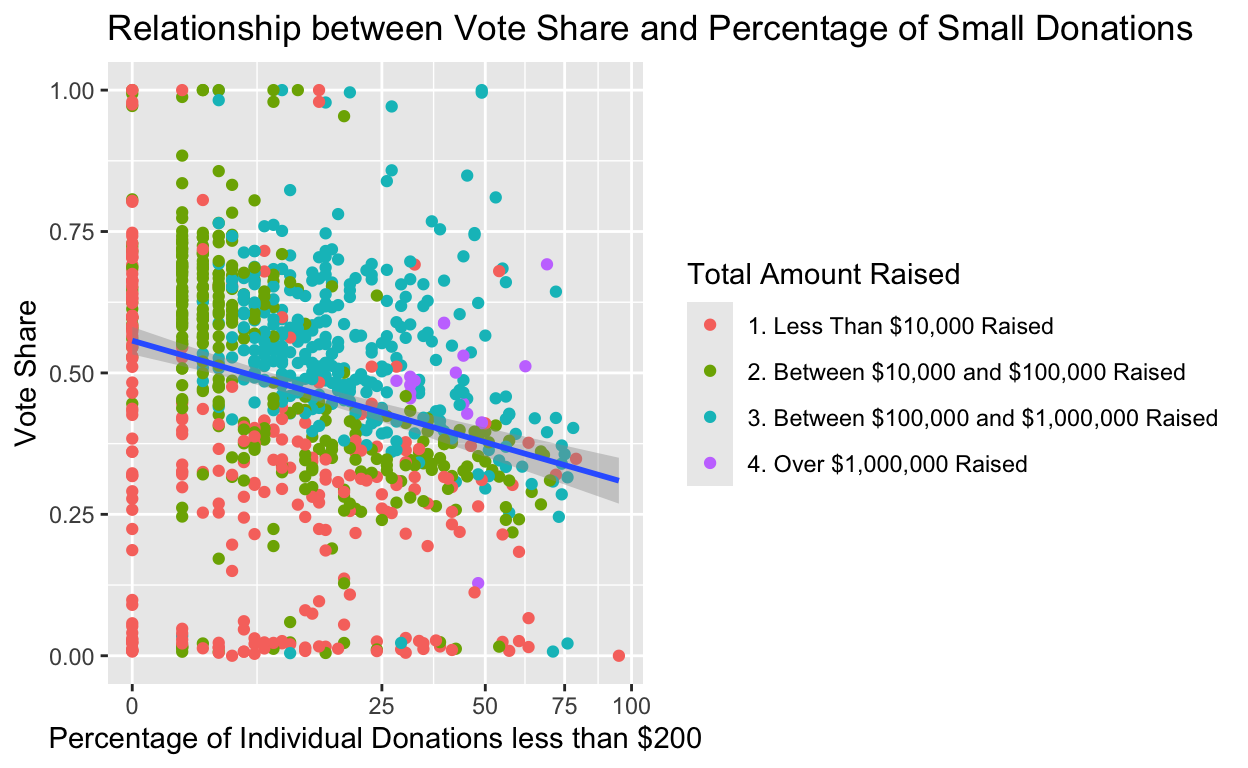
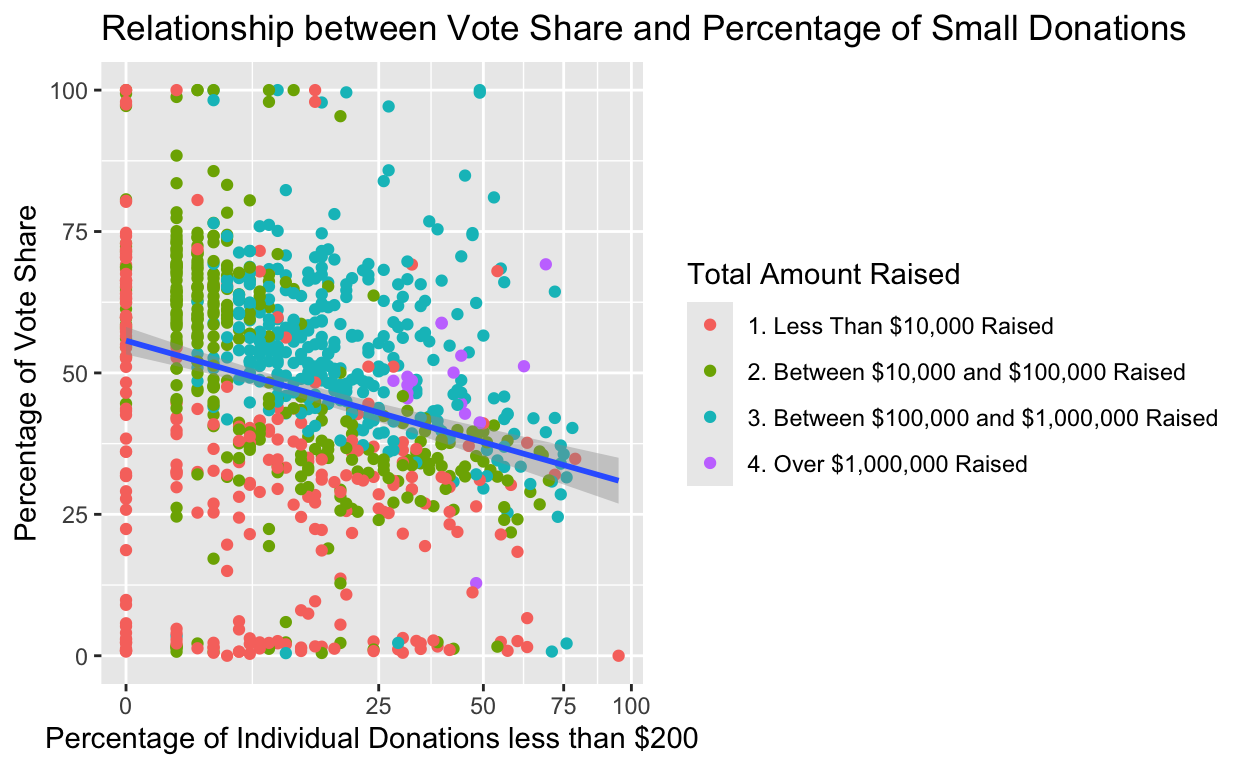
Linear Regression Model

diff --git a/index.html b/index.html
@@ -1550,38 +1550,6 @@ code span.wa { color: #5e5e5e; font-style: italic; } /* Warning */
 <p>Does size of donations impact a candidates electability? In this study, I plan to analyze the extent in which the percent of campaign donations from individuals under $200 influences the final election results. I hypothesize that a higher percent of small donations will result in a larger percent of the vote share. Those with a greater amount of smaller donations are better able to mobilize and attract a larger amount of individuals donating, whereas those with large donations focus more so on PACs and lobbying groups which can not cast a ballot when the time comes. My sample includes the House and Senate nominees from the 2024 Election. My explanatory variable is the percentage of total donations coming from donations of 200 dollars or less. The variable will be split into ranges of 25%. My outcome variable will be the average percentage of vote share. If a positive correlation is found between percentage of small donations and percent of vote share, this would support my hypothesis. However, if larger donations result in higher voteshare, than my hypothesis would be incorrect.</p>
 <div class="layout-chunk" data-layout="l-body">
 <div class="sourceCode">
-<pre class="sourceCode r"><code class="sourceCode r"><span><span class='va'>Donations</span> <span class='op'>&lt;-</span> <span class='fu'><a href='https://readr.tidyverse.org/reference/read_delim.html'>read_csv</a></span><span class='op'>(</span><span class='st'>"data/Large vs. Small Donations, Current General Election Candidates, 2024 Cycle.csv"</span><span class='op'>)</span></span>
-<span><span class='fu'><a href='https://rdrr.io/r/utils/head.html'>head</a></span><span class='op'>(</span><span class='va'>Donations</span><span class='op'>)</span></span></code></pre>
-</div>
-<pre><code># A tibble: 6 × 5
-  Name    `Total Raised` Total from Small Don…¹ Percent from Small D…²
-  &lt;chr&gt;   &lt;chr&gt;          &lt;chr&gt;                  &lt;chr&gt;                 
-1 Wright… $10528         $10299                 97.82%                
-2 CallJa… $76694         $73521                 95.86%                
-3 Housto… $7033          $6733                  95.73%                
-4 Murphy… $1507          $1432                  95.02%                
-5 DevoeM… $10395         $9675                  93.07%                
-6 Miller… $245           $222                   90.59%                
-# ℹ abbreviated names: ¹`Total from Small Donors`,
-#   ²`Percent from Small Donors*`
-# ℹ 1 more variable: `total money raised` &lt;chr&gt;</code></pre>
-<div class="sourceCode">
-<pre class="sourceCode r"><code class="sourceCode r"><span><span class='va'>Vote_Share</span> <span class='op'>&lt;-</span> <span class='fu'><a href='https://readr.tidyverse.org/reference/read_delim.html'>read_csv</a></span><span class='op'>(</span><span class='st'>"data/Nominees-2024.csv"</span><span class='op'>)</span> <span class='op'>|&gt;</span></span>
-<span>  <span class='fu'><a href='https://dplyr.tidyverse.org/reference/select.html'>select</a></span><span class='op'>(</span><span class='va'>Nominee</span>, <span class='va'>Race</span>, <span class='va'>Type</span>, <span class='va'>Party</span>, <span class='va'>Votes</span>, <span class='va'>Share</span>, <span class='va'>Total</span><span class='op'>)</span></span>
-<span><span class='fu'><a href='https://rdrr.io/r/utils/head.html'>head</a></span><span class='op'>(</span><span class='va'>Vote_Share</span><span class='op'>)</span></span></code></pre>
-</div>
-<pre><code># A tibble: 6 × 7
-  Nominee                 Race  Type  Party       Votes Share  Total
-  &lt;chr&gt;                   &lt;chr&gt; &lt;chr&gt; &lt;chr&gt;       &lt;dbl&gt; &lt;dbl&gt;  &lt;dbl&gt;
-1 F. Barry Moore          AL-01 House Republican 258619 0.784 329854
-2 Thomas B. Holmes, Jr.   AL-01 House Democratic  70929 0.215 329854
-3 Caroleene Hardee Dobson AL-02 House Republican 131414 0.454 289674
-4 Shomari C. Figures      AL-02 House Democratic 158041 0.546 289674
-5 Michael D. Rogers       AL-03 House Republican 243848 0.979 249008
-6 Robert B. Aderholt      AL-04 House Republican 274498 0.988 277872</code></pre>
-</div>
-<div class="layout-chunk" data-layout="l-body">
-<div class="sourceCode">
 <pre class="sourceCode r"><code class="sourceCode r"><span><span class='va'>Donations</span> <span class='op'>|&gt;</span></span>
 <span>  <span class='fu'><a href='https://dplyr.tidyverse.org/reference/mutate.html'>mutate</a></span><span class='op'>(</span></span>
 <span>    clean_name <span class='op'>=</span> <span class='fu'><a href='https://stringr.tidyverse.org/reference/str_replace.html'>str_replace</a></span><span class='op'>(</span><span class='va'>Name</span>, <span class='st'>" \\(.\\)"</span>, <span class='st'>""</span><span class='op'>)</span>,</span>
@@ -1654,49 +1622,84 @@ code span.wa { color: #5e5e5e; font-style: italic; } /* Warning */
 </div>
 <div class="layout-chunk" data-layout="l-body">
 <div class="sourceCode">
-<pre class="sourceCode r"><code class="sourceCode r"><span><span class='va'>Data</span> <span class='op'>&lt;-</span> <span class='va'>Data</span> <span class='op'>|&gt;</span></span>
-<span>  <span class='fu'><a href='https://dplyr.tidyverse.org/reference/mutate.html'>mutate</a></span><span class='op'>(</span>PercentSmall <span class='op'>=</span> <span class='fu'><a href='https://dplyr.tidyverse.org/reference/case_when.html'>case_when</a></span><span class='op'>(</span><span class='va'>Percent_Small_Donors</span> <span class='op'>&lt;</span> <span class='fl'>10</span> <span class='op'>~</span> <span class='st'>"1. Less than 10% from Small Donors"</span>,</span>
-<span>                                  <span class='va'>Percent_Small_Donors</span> <span class='op'>&gt;=</span> <span class='fl'>10</span> <span class='op'>&amp;</span> <span class='va'>Percent_Small_Donors</span> <span class='op'>&lt;</span> <span class='fl'>25</span> <span class='op'>~</span> <span class='st'>"2. Between 10% and 25% from Small Donors"</span>,</span>
-<span>                                  <span class='va'>Percent_Small_Donors</span> <span class='op'>&gt;=</span> <span class='fl'>25</span> <span class='op'>&amp;</span> <span class='va'>Percent_Small_Donors</span> <span class='op'>&lt;</span> <span class='fl'>50</span> <span class='op'>~</span> <span class='st'>"3. Between 25% and 50% from Small Donors"</span>,</span>
-<span>                                  <span class='va'>Percent_Small_Donors</span> <span class='op'>&gt;=</span> <span class='fl'>50</span> <span class='op'>&amp;</span> <span class='va'>Percent_Small_Donors</span> <span class='op'>&lt;</span> <span class='fl'>75</span> <span class='op'>~</span> <span class='st'>"4. Between 50% and 75% from Small Donors"</span>,</span>
-<span>                                  <span class='va'>Percent_Small_Donors</span> <span class='op'>&gt;=</span> <span class='fl'>75</span> <span class='op'>~</span> <span class='st'>"Over 75% from Small Donors"</span><span class='op'>)</span><span class='op'>)</span></span>
-<span><span class='va'>Data</span></span></code></pre>
-</div>
-<pre><code># A tibble: 944 × 17
-   Name              `Total Raised` Total from Small Don…¹ Total_Small
-   &lt;chr&gt;             &lt;chr&gt;          &lt;chr&gt;                        &lt;int&gt;
- 1 MurphyMike Murph… $1507          $1432                         1432
- 2 JamesBrandon Jam… $2999          $2389                         2389
- 3 MartinezTekesha … $607086        $477530                     477530
- 4 CraigJames Craig… $136339        $104722                     104722
- 5 WilsonTamie Wils… $2297407       $1764287                   1764287
- 6 HarrisShawn Harr… $3521099       $2643282                   2643282
- 7 WomerZach Womer … $140000        $104323                     104323
- 8 ValimontGay Vali… $1570201       $1169688                   1169688
- 9 PinkinsTy Pinkin… $1043829       $776394                     776394
-10 Al-AqidiDalia Al… $2207769       $1619067                   1619067
-# ℹ 934 more rows
-# ℹ abbreviated name: ¹`Total from Small Donors`
-# ℹ 13 more variables: `Percent from Small Donors*` &lt;chr&gt;,
-#   Percent_Small_Donors &lt;int&gt;, `total money raised` &lt;chr&gt;,
-#   clean.name &lt;chr&gt;, Nominee &lt;chr&gt;, Race &lt;chr&gt;, Type &lt;chr&gt;,
-#   Party &lt;chr&gt;, Votes &lt;dbl&gt;, Share &lt;dbl&gt;, Total &lt;dbl&gt;,
-#   `Total Amount Raised` &lt;chr&gt;, PercentSmall &lt;chr&gt;</code></pre>
-</div>
-<div class="layout-chunk" data-layout="l-body">
-<div class="sourceCode">
 <pre class="sourceCode r"><code class="sourceCode r"><span><span class='fu'><a href='https://ggplot2.tidyverse.org/reference/ggplot.html'>ggplot</a></span><span class='op'>(</span><span class='va'>Data</span>, <span class='fu'><a href='https://ggplot2.tidyverse.org/reference/aes.html'>aes</a></span><span class='op'>(</span>x <span class='op'>=</span> <span class='va'>Percent_Small_Donors</span>,</span>
-<span>                 y <span class='op'>=</span> <span class='va'>Share</span><span class='op'>)</span><span class='op'>)</span> <span class='op'>+</span></span>
+<span>                 y <span class='op'>=</span> <span class='va'>Share_perc</span><span class='op'>)</span><span class='op'>)</span> <span class='op'>+</span></span>
 <span>  <span class='fu'><a href='https://ggplot2.tidyverse.org/reference/geom_point.html'>geom_point</a></span><span class='op'>(</span><span class='fu'><a href='https://ggplot2.tidyverse.org/reference/aes.html'>aes</a></span><span class='op'>(</span>color <span class='op'>=</span> <span class='va'>`Total Amount Raised`</span><span class='op'>)</span><span class='op'>)</span> <span class='op'>+</span> </span>
 <span>  <span class='fu'><a href='https://ggplot2.tidyverse.org/reference/geom_smooth.html'>geom_smooth</a></span><span class='op'>(</span>method <span class='op'>=</span> <span class='st'>"lm"</span><span class='op'>)</span> <span class='op'>+</span></span>
 <span>  <span class='fu'><a href='https://ggplot2.tidyverse.org/reference/scale_continuous.html'>scale_x_sqrt</a></span><span class='op'>(</span><span class='op'>)</span> <span class='op'>+</span></span>
 <span>  <span class='fu'><a href='https://ggplot2.tidyverse.org/reference/labs.html'>labs</a></span><span class='op'>(</span>title <span class='op'>=</span> <span class='st'>"Relationship between Vote Share and Percentage of Small Donations"</span>,</span>
 <span>       x <span class='op'>=</span> <span class='st'>"Percentage of Individual Donations less than $200"</span>,</span>
-<span>       y <span class='op'>=</span> <span class='st'>"Vote Share"</span><span class='op'>)</span></span></code></pre>
+<span>       y <span class='op'>=</span> <span class='st'>"Percentage of Vote Share"</span><span class='op'>)</span></span></code></pre>
 </div>
 <p><img src="index_files/figure-html5/unnamed-chunk-10-1.png" alt="" width="624" /></p>
 </div>
-<div class="sourceCode" id="cb6"><pre class="sourceCode r distill-force-highlighting-css"><code class="sourceCode r"></code></pre></div>
+<div class="layout-chunk" data-layout="l-body">
+<div class="sourceCode">
+<pre class="sourceCode r"><code class="sourceCode r"><span><span class='va'>Regression</span> <span class='op'>&lt;-</span> <span class='fu'><a href='https://rdrr.io/r/stats/lm.html'>lm</a></span><span class='op'>(</span><span class='op'>(</span><span class='va'>Share</span><span class='op'>*</span><span class='fl'>100</span><span class='op'>)</span> <span class='op'>~</span> <span class='va'>Percent_Small_Donors</span> <span class='op'>+</span> <span class='va'>Total_Small_tenthousand</span>, data <span class='op'>=</span> <span class='va'>Data</span><span class='op'>)</span></span>
+<span><span class='va'>Regression_sum</span> <span class='op'>&lt;-</span> <span class='fu'><a href='https://generics.r-lib.org/reference/glance.html'>glance</a></span><span class='op'>(</span><span class='va'>Regression</span><span class='op'>)</span></span>
+<span><span class='va'>Regression</span> <span class='op'>|&gt;</span></span>
+<span>  <span class='fu'><a href='https://generics.r-lib.org/reference/tidy.html'>tidy</a></span><span class='op'>(</span><span class='op'>)</span> <span class='op'>|&gt;</span></span>
+<span>  <span class='fu'><a href='https://dplyr.tidyverse.org/reference/mutate.html'>mutate</a></span><span class='op'>(</span>adj.r.squared <span class='op'>=</span> <span class='va'>Regression_sum</span><span class='op'>$</span><span class='va'>adj.r.squared</span><span class='op'>)</span> <span class='op'>|&gt;</span></span>
+<span>   <span class='fu'><a href='https://dplyr.tidyverse.org/reference/mutate.html'>mutate</a></span><span class='op'>(</span>Coefficients <span class='op'>=</span> <span class='fu'><a href='https://dplyr.tidyverse.org/reference/case_when.html'>case_when</a></span><span class='op'>(</span><span class='va'>term</span> <span class='op'>==</span> <span class='st'>"(Intercept)"</span> <span class='op'>~</span> <span class='st'>"Intercept"</span>,</span>
+<span>                          <span class='va'>term</span> <span class='op'>==</span> <span class='st'>"Percent_Small_Donors"</span> <span class='op'>~</span> <span class='st'>"Percentage of Individual Donations less than $200"</span>,</span>
+<span>                          <span class='va'>term</span> <span class='op'>==</span> <span class='st'>"Total_Small_tenthousand"</span> <span class='op'>~</span> <span class='st'>"Total Amount Raised (ten thousands)"</span><span class='op'>)</span><span class='op'>)</span> <span class='op'>|&gt;</span></span>
+<span>   <span class='fu'><a href='https://dplyr.tidyverse.org/reference/select.html'>select</a></span><span class='op'>(</span><span class='va'>Coefficients</span>, <span class='va'>estimate</span>, <span class='va'>std.error</span>, <span class='va'>adj.r.squared</span><span class='op'>)</span> <span class='op'>|&gt;</span></span>
+<span>  <span class='fu'>knitr</span><span class='fu'>::</span><span class='fu'><a href='https://rdrr.io/pkg/knitr/man/kable.html'>kable</a></span><span class='op'>(</span><span class='op'>)</span></span></code></pre>
+</div>
+<table>
+<colgroup>
+<col style="width: 59%" />
+<col style="width: 11%" />
+<col style="width: 11%" />
+<col style="width: 16%" />
+</colgroup>
+<thead>
+<tr class="header">
+<th style="text-align: left;">Coefficients</th>
+<th style="text-align: right;">estimate</th>
+<th style="text-align: right;">std.error</th>
+<th style="text-align: right;">adj.r.squared</th>
+</tr>
+</thead>
+<tbody>
+<tr class="odd">
+<td style="text-align: left;">Intercept</td>
+<td style="text-align: right;">52.365459</td>
+<td style="text-align: right;">0.9235625</td>
+<td style="text-align: right;">0.0745947</td>
+</tr>
+<tr class="even">
+<td style="text-align: left;">Percentage of Individual Donations less than $200</td>
+<td style="text-align: right;">-0.346450</td>
+<td style="text-align: right;">0.0393588</td>
+<td style="text-align: right;">0.0745947</td>
+</tr>
+<tr class="odd">
+<td style="text-align: left;">Total Amount Raised (ten thousands)</td>
+<td style="text-align: right;">0.005344</td>
+<td style="text-align: right;">0.0018787</td>
+<td style="text-align: right;">0.0745947</td>
+</tr>
+</tbody>
+</table>
+</div>
+<div class="layout-chunk" data-layout="l-body">
+<div class="sourceCode">
+<pre class="sourceCode r"><code class="sourceCode r"><span><span class='va'>Regression</span></span></code></pre>
+</div>
+<pre><code>
+Call:
+lm(formula = (Share * 100) ~ Percent_Small_Donors + Total_Small_tenthousand, 
+    data = Data)
+
+Coefficients:
+            (Intercept)     Percent_Small_Donors  
+              52.365459                -0.346450  
+Total_Small_tenthousand  
+               0.005344  </code></pre>
+</div>
+<p>When a Candidate receives 0% of the Vote Share, it is predicted the Candidate will receive 52.37% of the Vote Share. When the total amount raised remains constant, it is estimated that for every additional percentage point of donations of less than $200, the candidate will lose 0.35 percentage points of the Vote Share. However, with an adjusted R^2 value of 0.075, only 7.5% of the variance is explained by the model, meaning the linear regression has a poor model fit and very little correlation between Vote Share and Percentage of Individual Donations under 200 dollars</p>
+<div class="sourceCode" id="cb4"><pre class="sourceCode r distill-force-highlighting-css"><code class="sourceCode r"></code></pre></div>
 <!--radix_placeholder_article_footer-->
 <!--/radix_placeholder_article_footer-->
 </div>
